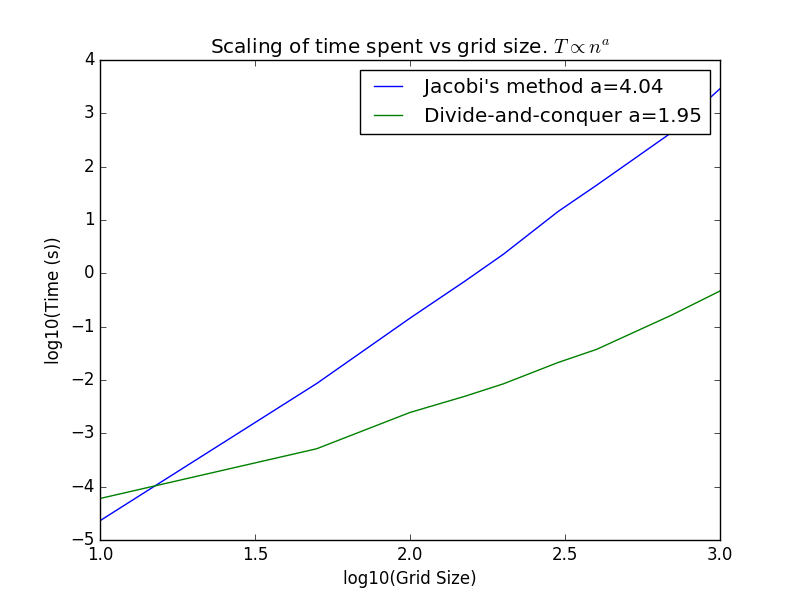
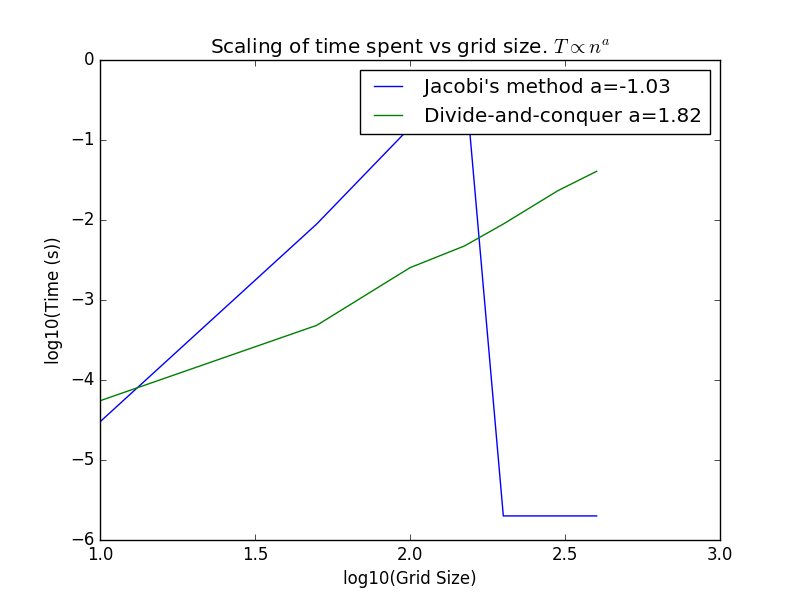
Project3: kan nå bruke planet nr 0 for alle planeter i filen initial_data.txt

diff --git a/Project3/main.cpp b/Project3/main.cpp
@@ -7,6 +7,7 @@
 #include <sstream>
 #include <string>
 #include <fstream>
+
 using namespace std;
 ofstream ifile;
 
@@ -16,9 +17,10 @@ int main(int nargs, char **vargs)
 {
     double years =10;
     int numTimesteps = 10000;
-    if(nargs<2){
+    if(nargs<4){
         cout << "Incorrect usage!" << endl;
         cout << "Usage:$ ./Project3 <numTimesteps> <years> <planet1> <planet2> ..." << endl;
+        cout << "For all bodies in initial_data.txt use <planet1> = 0" << endl;
         return 1;
     }
     if (vargs[1]<0){
@@ -50,7 +52,7 @@ int main(int nargs, char **vargs)
 
 
     cout << "The final positions are: " << endl;
-    for(int i = 0; i<bodies.size(); i++) {
+    for(int i = 0; i<(int)bodies.size(); i++) {
         Particle &body = bodies[i]; // Reference to this body
         cout << "Final status for particle with position: " << body.position << "length: " << body.position.length() << " and velociy: " << body.velocity << " and mass: " << body.mass << endl;
          }
@@ -76,7 +78,7 @@ void createparticles(Ensemble &system, int nargs, char **vargs){
             string sub;
             iss >> sub;
             for(int i = 0; i<nargs-3; i++){
-                if(atoi(sub.c_str())==atoi(vargs[i+3])){
+                if((atoi(sub.c_str())==atoi(vargs[i+3])) || ((nargs == 4) && atoi(vargs[3])==0)){
                     vec3 position(0,0,0);
                     vec3 velocity(0,0,0);
                     iss >> sub;

diff --git a/Project2/timing.py b/Project2/timing.py
@@ -5,8 +5,8 @@ import os as os
 
 omega = str(3)
 factor2 = str(3)
-grid_size = [10,50,	100,150,200,300,400,700, 1000]
-rho_stop=	[4,	4,	4,	4,	4,	4,	4,	4, 		4]
+grid_size = [10,50,	100,150,200,300,400]
+rho_stop=	[4,	4,	4,	4,	4,	4,	4]
 
 n = len(grid_size)
 
